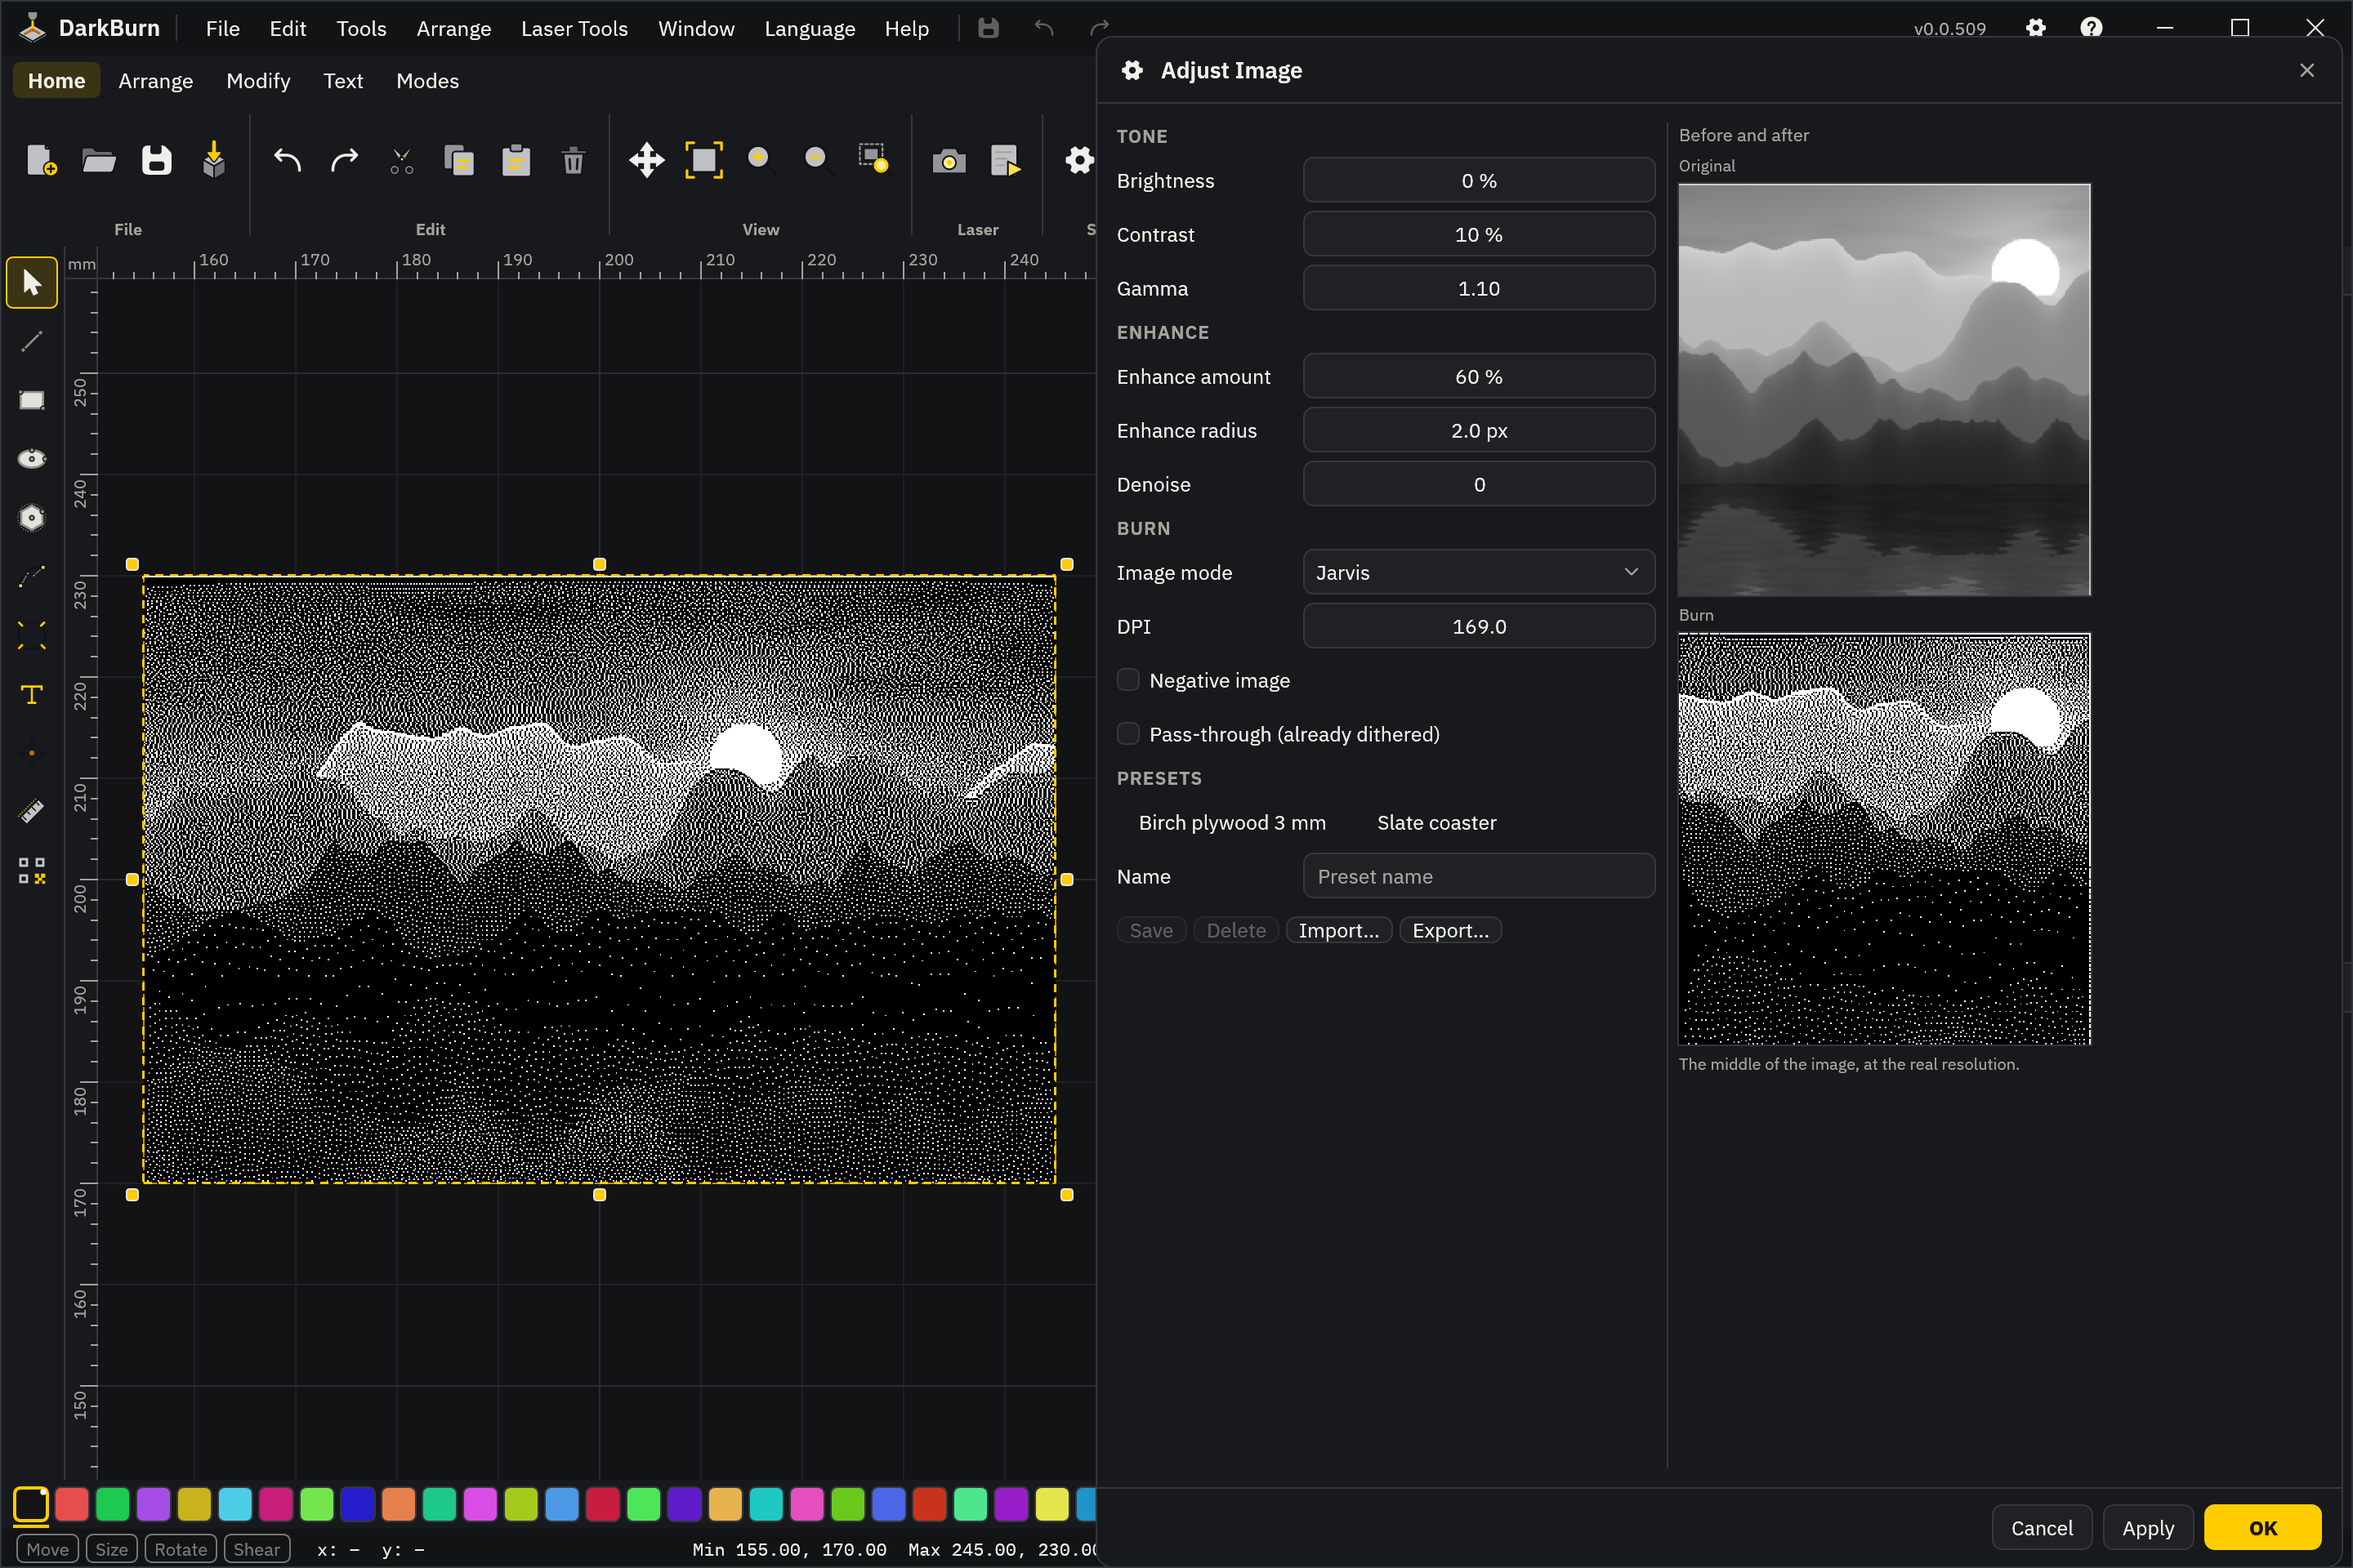
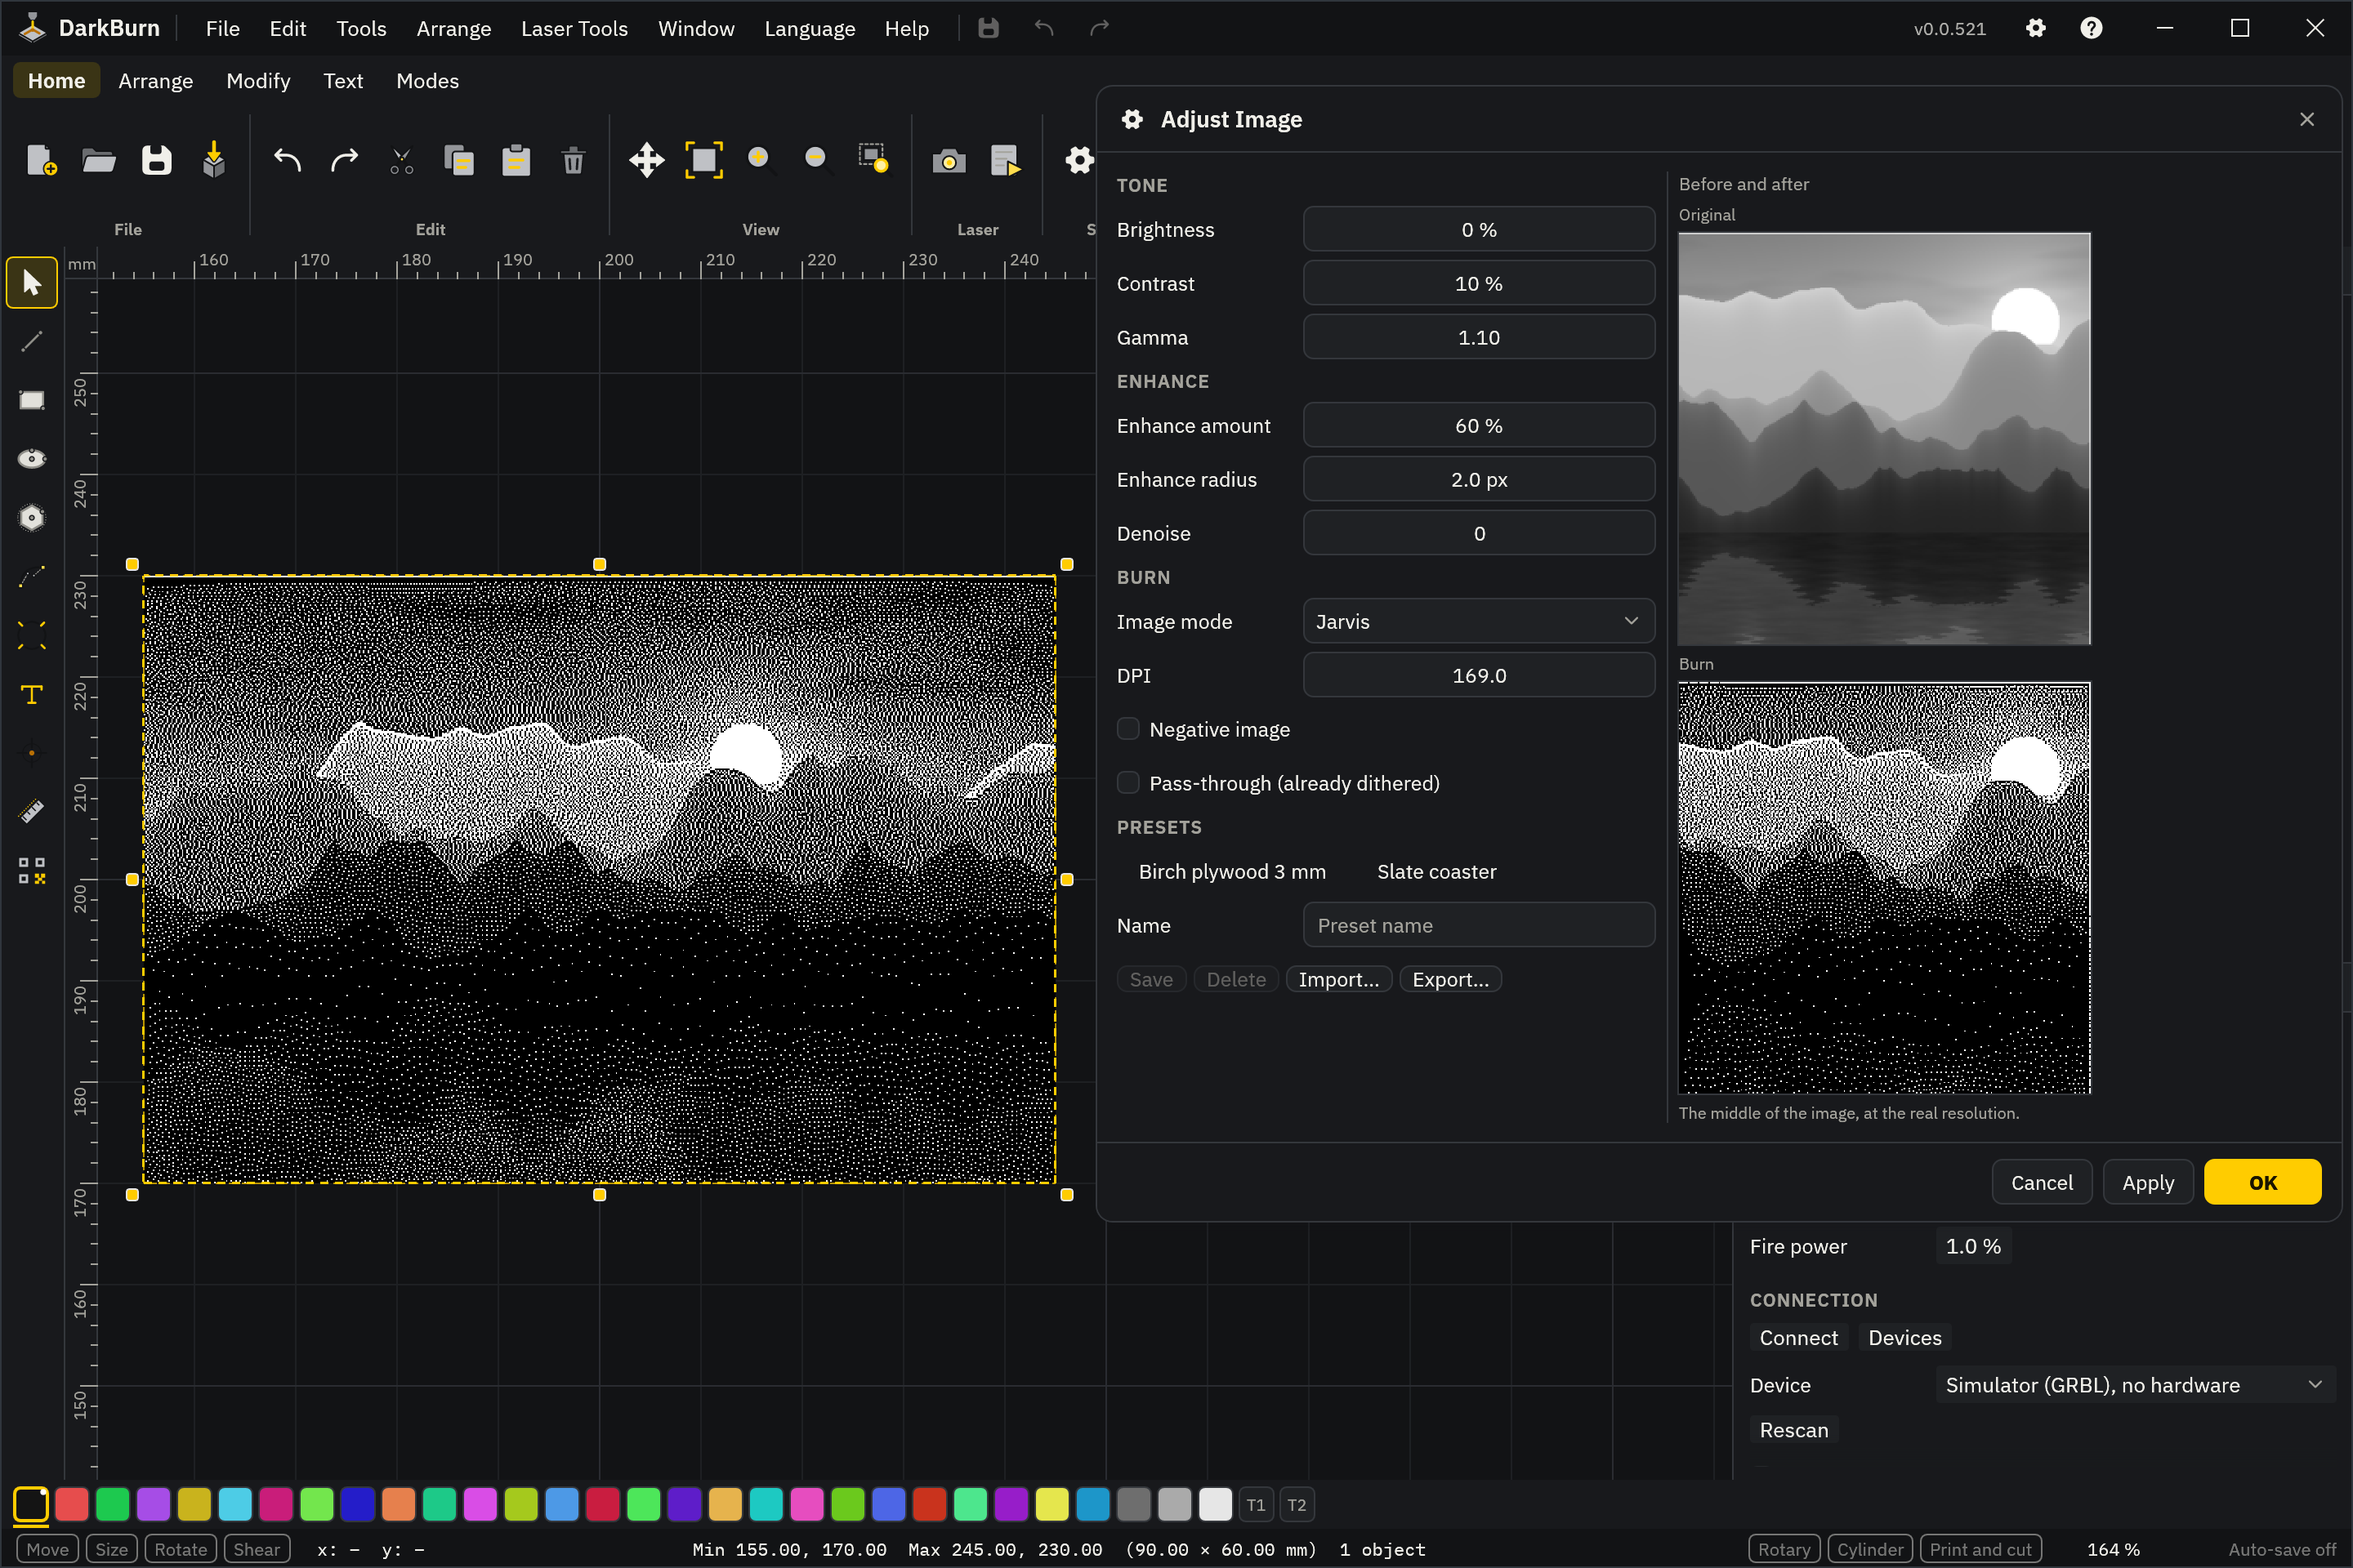
v0.0.521: changelog lines for the Preview, Cut Settings Editor, Adjust Image and Trace Image fixes, the Ruida key release, SVG text without Arial, the one-line installers and the Linux and macOS packages. README pictures made again with the new version: Adjust Image now sits clear of the application
Claude-Session: https://claude.ai/code/session_01Wk6s7AQJDbWa25bpPMk5WA

diff --git a/CHANGELOG.md b/CHANGELOG.md
@@ -1,6 +1,6 @@
 # Changelog
 
-## v0.0.509 (build 6)
+## v0.0.521 (build 6)
 - Fix: the automatic tab marks of the Add Tabs tool are now the tabs the job leaves, also with Min tabs above Max tabs, Max tabs at 0, shapes too small for their tabs and Skip inner shapes with one shape inside another
 - Fix: cut settings from a project file or an AI agent are held to the same ranges as the Cut Settings window (no more millions of tabs or pauses of years)
 - Fix: Copy Along Path no longer crashes on a path with absurdly large coordinates
@@ -93,6 +93,18 @@
 - Fix: Opening the door on a GRBL laser ends the Fire button, so closing the door and pressing Resume no longer lights the laser again
 - Fix: A GRBL job or frame that the door has stopped, and a paused frame, now show Resume instead of Pause
 - Fix: A Smoothieware or custom machine that halts in the middle of a job no longer goes on with the job after Unlock
+- Fix: the Preview window keeps its size instead of growing as wide as the whole app
+- Fix: Shade by power, Show travel moves and Invert in the Preview can be seen and clicked, and a narrow Preview puts its boxes and buttons on more rows
+- Fix: the Preview follows the pointer when you resize it by a corner or an edge, and no longer gets a little shorter every time you take hold of it
+- Fix: Restore in the Preview puts the window back where it was, at the size it had
+- Fix: the Preview and the Cut Settings Editor no longer open on top of the menus at the top of the app, also in a small window, and a maximised Preview leaves the menus free
+- Fix: the hint under the layer list in the Cut Settings Editor is no longer cut off
+- Fix: the Cut Settings Editor shows its settings all the way down to the bottom of the window, and is no longer as tall as the whole app with its lower part empty
+- Fix: Adjust Image and Trace Image are as tall as what is in them, no longer as tall as the whole app, and stay clear of the menus at the top
+- Fix: Ruida over Ethernet: a late answer from the controller could hide a lost key release and leave the Pulse key or a jog key held down; a release is now sent again until its own answer is in
+- Fix: Text in an SVG file no longer disappears on a computer without Arial
+- New: install with one line: a curl line on Linux and macOS, a PowerShell line on Windows
+- New: ready-made packages for Linux (x86_64 and arm64) and macOS (Apple silicon and Intel), next to the Windows installer and the portable zip
 
 - New front page for the project
 - The ribbon now shrinks to icons and a » menu on narrow windows
